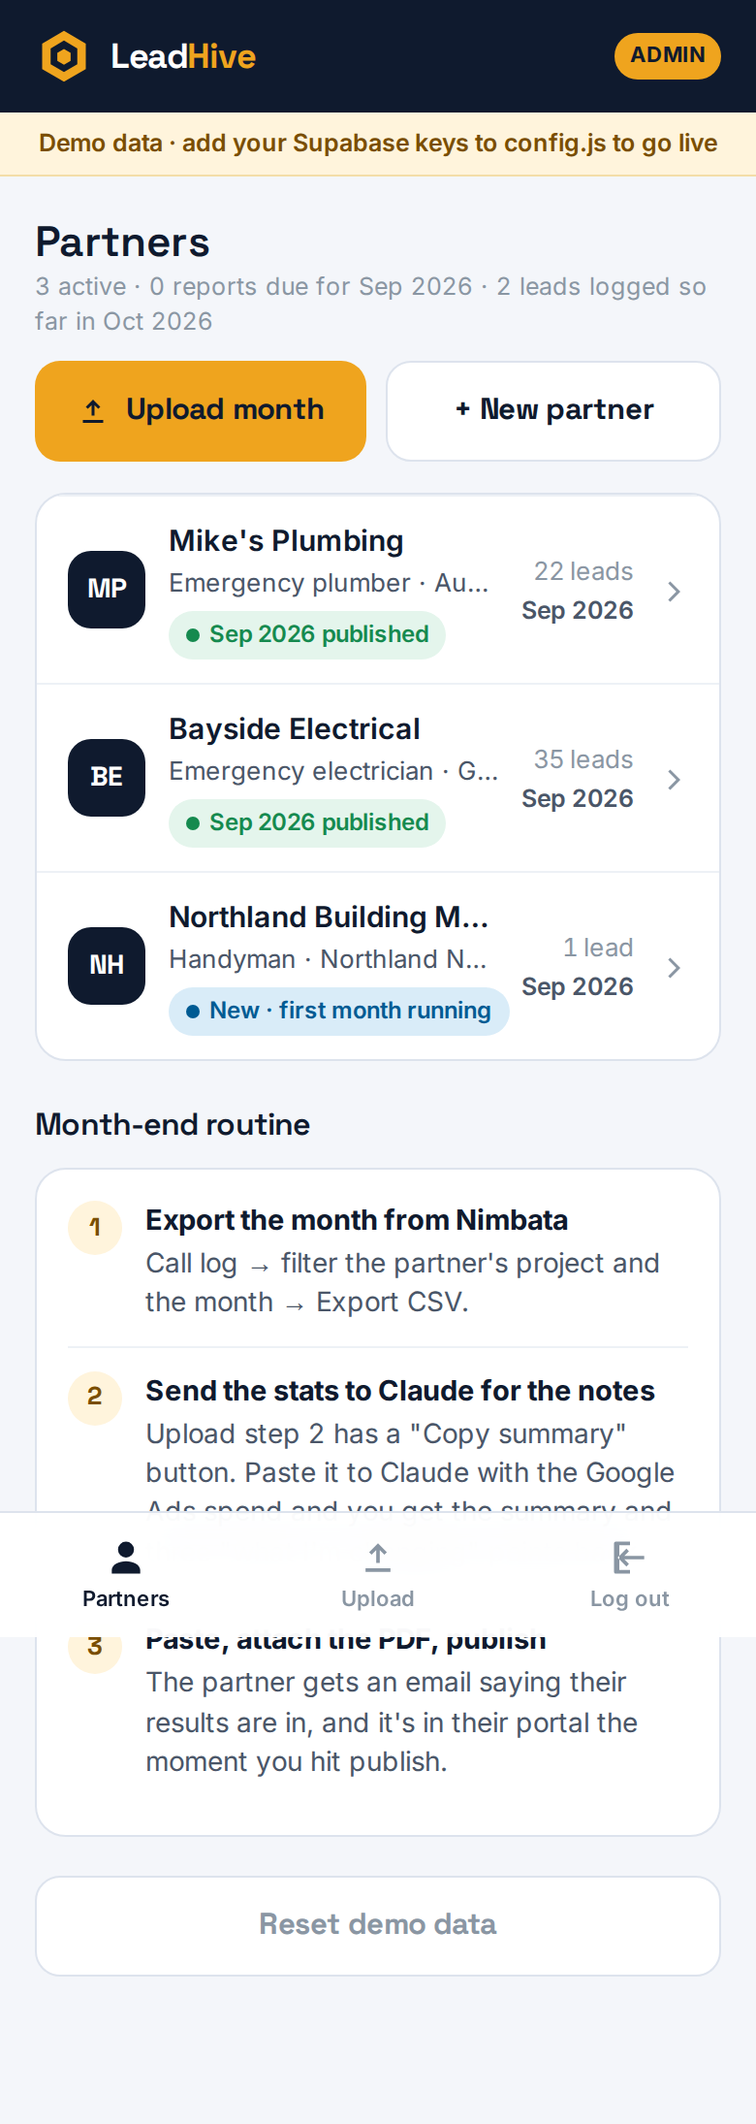
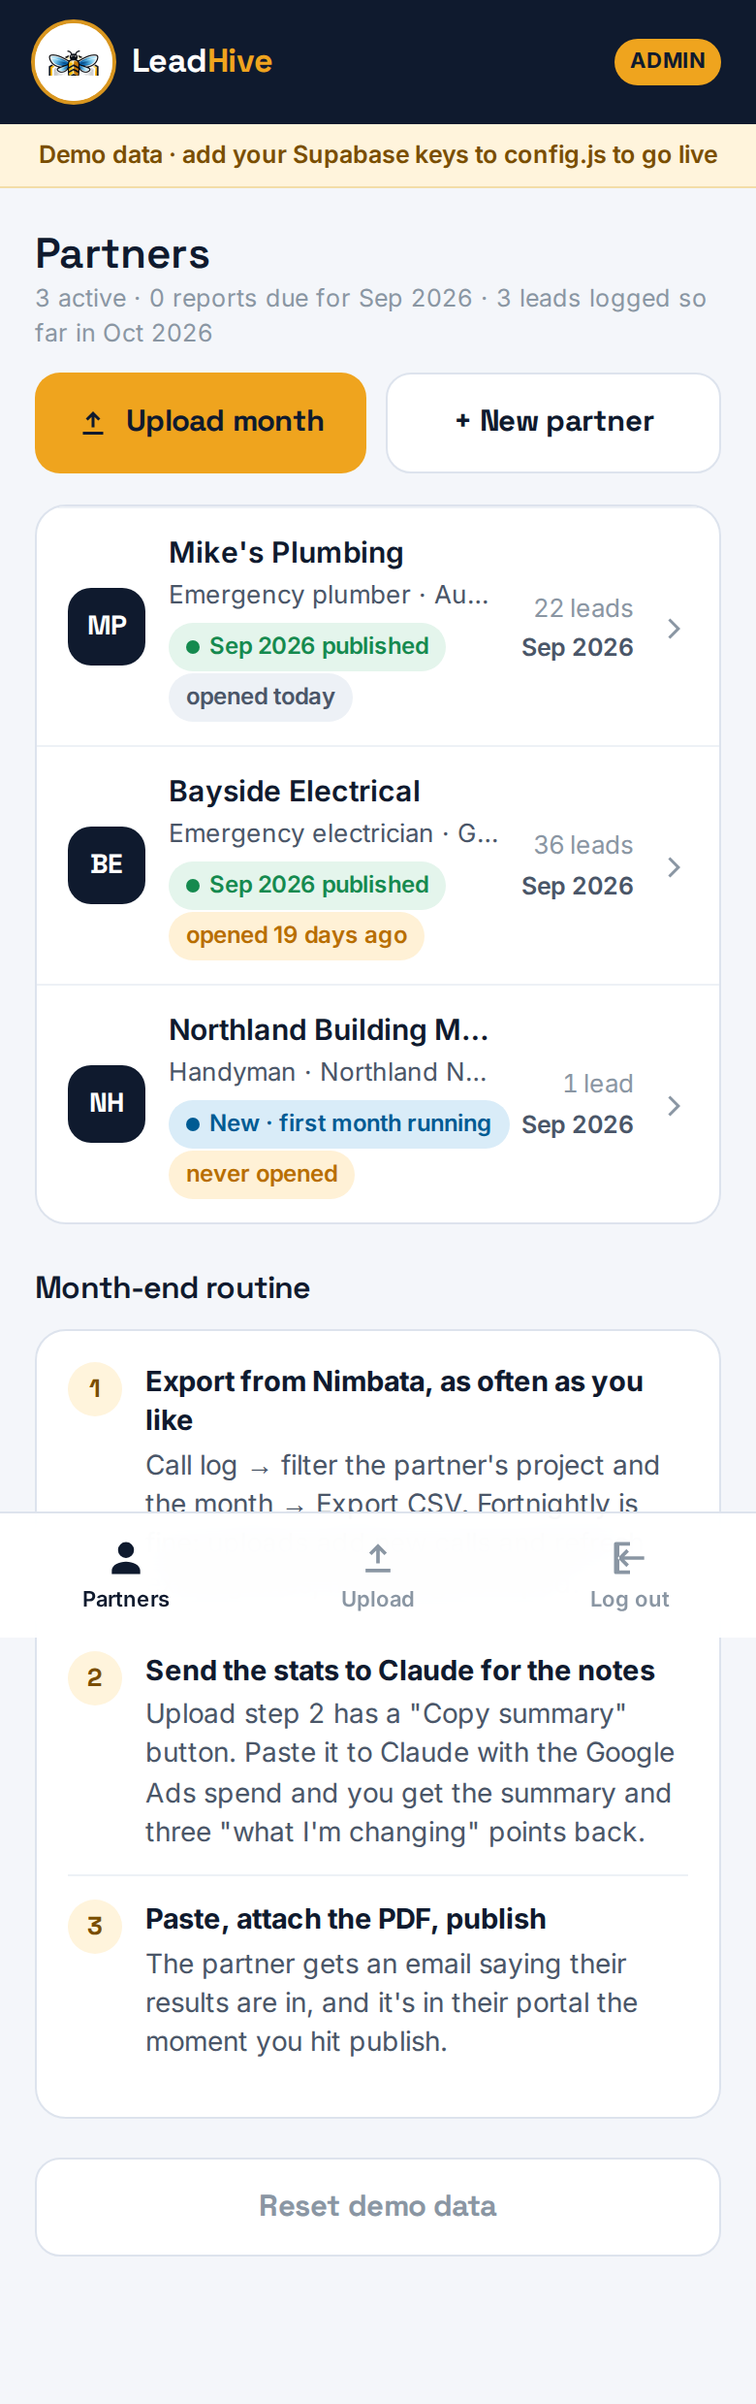
Handle partner churn: reasons, past partners, reactivation, last opened
Pausing a partner now asks for a reason and a note, keeps all their
data, shows a paused screen on their login, and lists them under Past
partners with the reason. Reactivate is one tap on their page. Partners
record a last-opened time when the portal loads (touch_seen RPC) and the
admin list flags anyone who hasn't opened it in two weeks. README
documents the offboarding flow.

Claude-Session: https://claude.ai/code/session_01VgpvMX7zLqg1kcFMCfdGMH

diff --git a/portal/app/public/app.js b/portal/app/public/app.js
@@ -131,6 +131,9 @@ function makeSupabaseApi() {
       return p || { id: user.id, email: user.email, role: "client", client_id: null };
     },
     async loadClients() { return q(sb.from("clients").select("*").order("business_name")); },
+    async touchSeen() { try { await sb.rpc("touch_seen"); } catch (e) {} },
+    async loadLastSeen() { const rows = await q(sb.from("profiles").select("client_id,last_seen_at").not("client_id", "is", null)); const m = {}; rows.forEach((r) => { if (r.last_seen_at && (!m[r.client_id] || r.last_seen_at > m[r.client_id])) m[r.client_id] = r.last_seen_at; }); return m; },
+    async reactivateClient(cid) { await q(sb.from("clients").update({ active: true, churned_on: null, churn_reason: null, churn_note: "" }).eq("id", cid)); },
     async loadCounts() { const rows = await q(sb.from("v_lead_counts").select("*")); return rows.map((r) => ({ ...r, calls: num(r.calls), answered: num(r.answered), enquiries: num(r.enquiries), leads: num(r.leads), won: num(r.won), won_value: num(r.won_value) })); },
     async loadMonths(cid) {
       let mq = sb.from("months").select("*").order("ym"); let aq = sb.from("v_month_ad_spend").select("month_id, ad_spend");
@@ -149,7 +152,7 @@ function makeSupabaseApi() {
     },
     async updateLead(kind, id, patch) { await q(sb.from(kind === "call" ? "calls" : "enquiries").update(patch).eq("id", id)); },
     async upsertClient(c) { const row = { ...c }; if (!row.id) delete row.id; return q(sb.from("clients").upsert(row).select().single()); },
-    async deactivateClient(cid) { await q(sb.from("clients").update({ active: false }).eq("id", cid)); },
+    async deactivateClient(cid, reason, note) { await q(sb.from("clients").update({ active: false, churned_on: new Date().toISOString().slice(0, 10), churn_reason: reason || null, churn_note: note || "" }).eq("id", cid)); },
     async getWebhookKey(cid) { const r = await q(sb.from("client_secrets").select("webhook_key").eq("client_id", cid).maybeSingle()); return r ? r.webhook_key : ""; },
     async upsertMonth(m) { return q(sb.from("months").upsert(m, { onConflict: "client_id,ym" }).select().single()); },
     async setAdSpend(month_id, ad_spend) { await q(sb.from("month_private").upsert({ month_id, ad_spend })); },
@@ -193,7 +196,10 @@ function makeDemoApi() {
     async loadClientData(cid) { await sleep(120); const me = meSync(); if (me.role !== "admin" && cid !== me.client_id) throw new Error("Not allowed"); return { months: await this.loadMonths(cid), calls: D.calls.filter((c) => c.client_id === cid).map((c) => ({ ...c })).sort((a, b) => (a.called_at < b.called_at ? 1 : -1)), enquiries: D.enquiries.filter((e) => e.client_id === cid).map((e) => ({ ...e })).sort((a, b) => (a.received_at < b.received_at ? 1 : -1)) }; },
     async updateLead(kind, id, patch) { const x = (kind === "call" ? D.calls : D.enquiries).find((r) => r.id === id); if (!x) throw new Error("Lead not found"); const me = meSync(); if (me.role !== "admin") { const allowed = ["client_status", "job_value", "client_note"]; for (const k of Object.keys(patch)) if (!allowed.includes(k)) throw new Error("Partners can only change the lead outcome, job value and note"); if (["not_lead", "spam"].includes(patch.client_status) && patch.client_status !== x.client_status) throw new Error("Only LeadHive can mark a lead as not a lead or spam"); } Object.assign(x, patch); persist(); },
     async upsertClient(c) { let row = D.clients.find((x) => x.id === c.id); if (!row) { row = { ...c, id: c.id || uid(), active: true }; D.clients.push(row); D.secrets[row.id] = "lh_demo_" + (row.initials || "xx").toLowerCase() + "_" + uid().replace(/-/g, "").slice(0, 16); } else Object.assign(row, c); persist(); return { ...row }; },
-    async deactivateClient(cid) { const c = D.clients.find((x) => x.id === cid); if (c) c.active = false; persist(); },
+    async deactivateClient(cid, reason, note) { const c = D.clients.find((x) => x.id === cid); if (c) { c.active = false; c.churned_on = new Date().toISOString().slice(0, 10); c.churn_reason = reason || null; c.churn_note = note || ""; } persist(); },
+    async reactivateClient(cid) { const c = D.clients.find((x) => x.id === cid); if (c) { c.active = true; c.churned_on = null; c.churn_reason = null; c.churn_note = ""; } persist(); },
+    async touchSeen() { const me = meSync(); if (me && me.client_id) { D.seen = D.seen || {}; D.seen[me.client_id] = new Date().toISOString(); persist(); } },
+    async loadLastSeen() { const m = { ...(D.seen || {}) }; const days = (n) => new Date(Date.now() - n * 864e5).toISOString(); if (!m[D.clients[0].id]) m[D.clients[0].id] = days(2); if (D.clients[1] && !m[D.clients[1].id]) m[D.clients[1].id] = days(19); return m; },
     async getWebhookKey(cid) { return D.secrets[cid] || ""; },
     async upsertMonth(m) { let row = D.months.find((x) => x.client_id === m.client_id && x.ym === m.ym); if (!row) { row = { id: uid(), ad_spend: 0, pdf_path: null, published_at: null, ...m }; D.months.push(row); } else Object.assign(row, m); persist(); return { ...row }; },
     async setAdSpend(month_id, ad_spend) { const m = D.months.find((x) => x.id === month_id); if (m) m.ad_spend = ad_spend; persist(); },
@@ -227,13 +233,14 @@ function makeDemoApi() {
 const api = DEMO ? makeDemoApi() : makeSupabaseApi();
 
 /* ═══════════════════════════ cache + loaders ═══════════════════════════ */
-const DB = { me: null, clients: [], months: [], calls: [], enquiries: [], counts: [], loaded: {}, keys: {} };
-function resetDB() { DB.me = null; DB.clients = []; DB.months = []; DB.calls = []; DB.enquiries = []; DB.counts = []; DB.loaded = {}; DB.keys = {}; }
+const DB = { me: null, clients: [], months: [], calls: [], enquiries: [], counts: [], loaded: {}, keys: {}, seen: {} };
+function resetDB() { DB.me = null; DB.clients = []; DB.months = []; DB.calls = []; DB.enquiries = []; DB.counts = []; DB.loaded = {}; DB.keys = {}; DB.seen = {}; }
 async function loadBase() {
   DB.me = await api.me();
   if (!DB.me) return;
   DB.clients = await api.loadClients();
-  if (DB.me.role === "admin") { const [counts, months] = await Promise.all([api.loadCounts(), api.loadMonths()]); DB.counts = counts; DB.months = months; }
+  if (DB.me.role === "admin") { const [counts, months, seen] = await Promise.all([api.loadCounts(), api.loadMonths(), api.loadLastSeen().catch(() => ({}))]); DB.counts = counts; DB.months = months; DB.seen = seen; }
+  else if (DB.me.client_id) api.touchSeen();
 }
 async function ensureClient(cid, force) {
   if (!force && DB.loaded[cid]) return;
@@ -494,7 +501,7 @@ function renderReset() {
     try { await api.updatePassword($("rs-pass").value); toast("Password saved"); resetDB(); go("/"); await route(); } catch (ex) { err.textContent = ex.message; err.classList.remove("hidden"); } };
 }
 function renderPaused(c) {
-  app().innerHTML = loginShell(`<h2>Your portal is paused</h2><p class="lede mt8">${h(c.business_name)} isn't an active LeadHive partner right now, so the portal is switched off. Text ${h(JOE.name)} if that's a surprise.</p>
+  app().innerHTML = loginShell(`<h2>Your portal is paused</h2><p class="lede mt8">${h(c.business_name)} isn't running with LeadHive right now, so the portal is switched off. Your calls, recordings and results are all kept, and it's one message to ${h(JOE.name)} to switch it back on.</p>
     ${JOE.phone ? `<a class="btn navy mt20" href="sms:${h(JOE.phone.replace(/\s/g, ""))}">Text ${h(JOE.name)}</a>` : ""}<button class="btn ghost mt12" id="np-out">Log out</button>`);
   $("np-out").onclick = async () => { await api.signOut(); resetDB(); go("/"); route(); };
 }
@@ -698,15 +705,18 @@ function clientStatus(c) {
   if (draft) return { cls: "warn", l: `${ymLabel(prevYm, false)} draft, not published` };
   return { cls: "bad", l: `${ymLabel(prevYm, false)} report due` };
 }
+const CHURN_REASONS = { price: "Price", capacity: "No capacity for more work", quality: "Lead quality", in_house: "Doing it themselves", seasonal: "Seasonal / pausing", other: "Other" };
+const agoText = (iso) => { if (!iso) return "never opened"; const d = Math.floor((Date.now() - new Date(iso)) / 864e5); return d <= 0 ? "opened today" : d === 1 ? "opened yesterday" : `opened ${d} days ago`; };
 function renderAdmin() {
-  const cs = DB.clients.filter((c) => c.active); const cur = CUR_YM(), prevYm = ymAdd(cur, -1);
+  const cs = DB.clients.filter((c) => c.active); const inactive = DB.clients.filter((c) => !c.active); const cur = CUR_YM(), prevYm = ymAdd(cur, -1);
   const due = cs.filter((c) => ["bad", "warn"].includes(clientStatus(c).cls)).length;
   const live = DB.counts.filter((r) => r.ym === cur).reduce((a, r) => a + r.leads, 0);
   app().innerHTML = topBar({ brand: true, right: `<span class="pill-admin">ADMIN</span>` }) + `<div class="shell">
   <div class="row" style="margin:18px 0 12px"><div class="grow"><h1 style="font-size:22px;font-weight:600">Partners</h1><div class="small muted">${cs.length} active · ${due} report${due === 1 ? "" : "s"} due for ${ymLabel(prevYm, false)} · ${live} lead${live === 1 ? "" : "s"} logged so far in ${ymLabel(cur, false)}</div></div></div>
   <div class="btn-row"><a class="btn primary" href="#/admin/upload">${ICON.upload}Upload month</a><a class="btn ghost" href="#/admin/newclient">+ New partner</a></div>
-  <div class="list mt16">${cs.length ? cs.map((c) => { const s = clientStatus(c); const k = countFor(c.id, prevYm); return `<a class="li client-li" href="#/admin/client/${c.id}"><div class="ic">${h(c.initials || "")}</div><div class="grow"><div class="t1"><span>${h(c.business_name)}</span></div><div class="t2"><span class="tx">${h(c.niche)} · ${h(c.region)} ${h(c.country)} · ${h(c.package_name)} ${money(c.monthly_fee)}</span></div><div style="margin-top:5px"><span class="chip ${s.cls}"><i></i>${s.l}</span></div></div><div class="meta"><div class="tm">${k.leads ? k.leads + (k.leads === 1 ? " lead" : " leads") : ""}</div><div class="du muted">${k.leads ? ymLabel(prevYm, false) : ""}</div></div><span class="chev">${ICON.chev}</span></a>`; }).join("") : `<div class="empty">No partners yet. Add your first one.</div>`}</div>
+  <div class="list mt16">${cs.length ? cs.map((c) => { const s = clientStatus(c); const k = countFor(c.id, prevYm); return `<a class="li client-li" href="#/admin/client/${c.id}"><div class="ic">${h(c.initials || "")}</div><div class="grow"><div class="t1"><span>${h(c.business_name)}</span></div><div class="t2"><span class="tx">${h(c.niche)} · ${h(c.region)} ${h(c.country)} · ${h(c.package_name)} ${money(c.monthly_fee)}</span></div><div style="margin-top:5px"><span class="chip ${s.cls}"><i></i>${s.l}</span> ${(() => { const seen = DB.seen[c.id]; const d = seen ? Math.floor((Date.now() - new Date(seen)) / 864e5) : null; return `<span class="chip ${d == null || d >= 14 ? "warn" : ""}">${agoText(seen)}</span>`; })()}</div></div><div class="meta"><div class="tm">${k.leads ? k.leads + (k.leads === 1 ? " lead" : " leads") : ""}</div><div class="du muted">${k.leads ? ymLabel(prevYm, false) : ""}</div></div><span class="chev">${ICON.chev}</span></a>`; }).join("") : `<div class="empty">No partners yet. Add your first one.</div>`}</div>
   <div class="sec"><div class="sec-h"><h2>Month-end routine</h2></div><div class="card"><div class="pt"><div class="ix">1</div><div><b>Export from Nimbata, as often as you like</b><p>Call log → filter the partner's project and the month → Export CSV. Fortnightly is fine: uploads add new calls and refresh existing ones, nothing gets wiped.</p></div></div><div class="pt"><div class="ix">2</div><div><b>Send the stats to Claude for the notes</b><p>Upload step 2 has a "Copy summary" button. Paste it to Claude with the Google Ads spend and you get the summary and three "what I'm changing" points back.</p></div></div><div class="pt"><div class="ix">3</div><div><b>Paste, attach the PDF, publish</b><p>The partner gets an email saying their results are in, and it's in their portal the moment you hit publish.</p></div></div></div></div>
+  ${inactive.length ? `<div class="sec"><div class="sec-h"><h2>Past partners</h2><span class="small muted">${inactive.length}</span></div><div class="list">${inactive.map((c) => `<a class="li client-li" href="#/admin/client/${c.id}" style="opacity:.75"><div class="ic" style="background:var(--ink-3)">${h(c.initials || "")}</div><div class="grow"><div class="t1"><span>${h(c.business_name)}</span></div><div class="t2"><span class="tx">${h(c.region)} · left ${c.churned_on ? fmtDate(c.churned_on + "T12:00:00Z") : "–"}${c.churn_reason ? " · " + h(CHURN_REASONS[c.churn_reason] || c.churn_reason) : ""}</span></div></div><span class="chev">${ICON.chev}</span></a>`).join("")}</div><p class="small muted mt8">Their data and recordings are kept. Open one to reactivate.</p></div>` : ""}
   ${DEMO ? `<button class="btn ghost mt20" id="reset" style="color:var(--ink-3)">Reset demo data</button>` : ""}</div>`;
   const r = $("reset"); if (r) r.onclick = () => { if (confirm("Reset the demo data to the starting state?")) { api.resetDemo(); resetDB(); route(); toast("Demo reset"); } };
 }
@@ -716,13 +726,15 @@ function renderAdminClient(ctx) {
   const ms = DB.months.filter((m) => m.client_id === c.id).sort((a, b) => (a.ym < b.ym ? 1 : -1)); const s = clientStatus(c); const cur = CUR_YM();
   const live = leadsFor(c.id, cur);
   app().innerHTML = topBar({ title: h(c.business_name), sub: `${h(c.contact_name)} · ${h(c.package_name)} · ${money(c.monthly_fee)}/mo`, back: "/admin" }) + `<div class="shell">
-  <div class="mt16"><span class="chip ${s.cls}"><i></i>${s.l}</span> <span class="chip">${c.lead_target_min}–${c.lead_target_max} leads</span> <span class="chip">${h(c.country)}</span>${c.active ? "" : ' <span class="chip bad">Inactive</span>'}</div>
+  ${c.active ? "" : `<div class="card mt16" style="background:var(--bad-bg);border-color:#F2C9C9"><b style="color:var(--bad)">Past partner · left ${c.churned_on ? fmtDate(c.churned_on + "T12:00:00Z") : "–"}${c.churn_reason ? " · " + h(CHURN_REASONS[c.churn_reason] || c.churn_reason) : ""}</b>${c.churn_note ? `<p class="small mt8" style="color:#7A2E2E">${h(c.churn_note)}</p>` : ""}<p class="small mt8" style="color:#7A2E2E">Their login is paused and their webhook is off. Everything is kept for a win-back.</p><button class="btn navy mt12" id="react">Reactivate partner</button></div>`}
+  <div class="mt16"><span class="chip ${s.cls}"><i></i>${s.l}</span> <span class="chip">${c.lead_target_min}–${c.lead_target_max} leads</span> <span class="chip">${h(c.country)}</span> <span class="chip ${DB.seen[c.id] && (Date.now() - new Date(DB.seen[c.id])) / 864e5 < 14 ? "" : "warn"}">${agoText(DB.seen[c.id])}</span></div>
   <div class="btn-row mt12"><a class="btn primary" href="#/admin/upload/${c.id}">${ICON.upload}Upload month</a><a class="btn ghost" href="#/as/${c.id}/home">View as ${h(c.contact_name || "partner")}</a></div>
   <div class="btn-row" style="margin-top:8px"><a class="btn ghost sm" style="flex:1" href="#/admin/settings/${c.id}">${ICON.cog}Settings &amp; login</a><button class="btn ghost sm" style="flex:1" id="copy-hook">${ICON.copy}Enquiry webhook</button></div>
   <div class="sec"><div class="sec-h"><h2>Months</h2></div><div class="list">${ms.length ? ms.map((m) => { const st = monthStats(c, m.ym); return `<a class="li" href="#/admin/upload/${c.id}/${m.ym}"><div class="grow"><div class="t1"><span>${ymLabel(m.ym)}</span>${m.status === "published" ? `<span class="chip good">Published</span>` : `<span class="chip warn">Draft</span>`}</div><div class="t2"><span class="tx">${st.leads} leads · ${st.calls} calls · ${st.missedRate}% missed · ${st.enq} web${st.adSpend ? ` · ads ${money(st.adSpend)}${st.leads ? ` (${money(st.cplAd)}/lead)` : ""}` : ""}</span></div></div><span class="chev">${ICON.chev}</span></a>`; }).join("") : `<div class="empty">No months uploaded yet.</div>`}</div></div>
   <div class="sec"><div class="sec-h"><h2>${ymLabel(cur, false)} so far</h2><a href="#/as/${c.id}/leads/${cur}">${live.length} lead${live.length === 1 ? "" : "s"}</a></div><div class="list">${live.length ? live.slice(0, 4).map((x) => leadRow(x, `/as/${c.id}`, null)).join("") : `<div class="empty">Nothing logged yet this month. Web enquiries land here live once the webhook is on the landing page; calls arrive with the CSV.</div>`}</div></div>
   <div class="sec"><div class="sec-h"><h2>Margin (admin only)</h2></div><div class="card">${ms.filter((m) => m.status === "published").slice(0, 3).map((m) => { const ad = Number(m.ad_spend) || 0; const fee = Number(c.monthly_fee) || 0; return `<div class="rpt-k"><span>${ymLabel(m.ym, false)}</span><b>${money(fee - ad)} <span class="muted small">of ${money(fee)} · ${pct(fee - ad, fee)}%</span></b></div>`; }).join("") || `<div class="muted small">Nothing published yet.</div>`}<p class="small muted mt8">Partners never see ad spend unless you switch it on in Settings.</p></div></div></div>`;
   $("copy-hook").onclick = async () => { try { const key = DB.keys[c.id] || (DB.keys[c.id] = await api.getWebhookKey(c.id)); copyText(`POST ${PORTAL_URL}/api/enquiry\nx-leadhive-key: ${key}\n{ "name", "phone", "suburb", "issue", "isUrgent", "page" }`, "Webhook details copied"); } catch (e) { toast(e.message, true); } };
+  const ra = $("react"); if (ra) ra.onclick = async () => { try { ra.setAttribute("disabled", ""); await api.reactivateClient(c.id); Object.assign(c, { active: true, churned_on: null, churn_reason: null, churn_note: "" }); toast(`${c.business_name} is back`); route(); } catch (e) { toast(e.message, true); ra.removeAttribute("disabled"); } };
 }
 function renderUpload(ctx) {
   const pre = ctx.args[0] ? client(ctx.args[0]) : null; const cur = CUR_YM(); const preYm = ctx.args[1] || ymAdd(cur, -1);
@@ -816,7 +828,8 @@ async function renderSettings(ctx) {
   <div class="card mt12"><h2 style="font-size:16px;font-weight:600">Login</h2><p class="small muted mt8">They log in with the email above. Set a password here and send it to them, or let them use "Set up your login" on the login screen with that email.</p>${f("s-pass", isNew ? "Password for their login" : "Set or reset their password", "", "text", 'placeholder="e.g. Plumbing2026" autocomplete="off"')}<div class="btn-row mt12"><button class="btn ghost sm" style="flex:1" id="s-sendlogin">${ICON.copy}Copy login message</button></div></div>
   ${isNew ? "" : `<div class="card mt12"><h2 style="font-size:16px;font-weight:600">Website enquiries</h2><p class="small muted mt8">Add this to the landing page's enquiry route and every form submission lands in their portal instantly.</p><pre class="code mt8" id="hook">loading…</pre></div>`}
   <button class="btn primary mt16" id="s-save">${isNew ? "Create partner + login" : "Save settings"}</button>
-  ${isNew || !c.active ? "" : `<button class="btn danger mt12" id="s-off">Deactivate partner</button>`}
+  ${isNew || !c.active ? "" : `<button class="btn danger mt12" id="s-off">Partner is leaving…</button>
+  <div class="card mt12 hidden" id="off-box"><h2 style="font-size:16px;font-weight:600">Why are they leaving?</h2><p class="small muted mt8">One tap. You'll see this on the past partners list and it shapes what we fix.</p><label class="fld"><span>Reason</span><select id="off-reason">${Object.entries(CHURN_REASONS).map(([k, v]) => `<option value="${k}">${v}</option>`).join("")}</select></label><label class="fld"><span>Note (optional)</span><textarea id="off-note" placeholder="e.g. Hired a second plumber, wants to pause until March"></textarea></label><div class="btn-row mt12"><button class="btn ghost" id="off-cancel">Keep them</button><button class="btn danger" id="off-go">Pause their portal</button></div></div>`}
   <div style="height:20px"></div></div>`;
   $("s-cpl").onclick = (e) => e.currentTarget.classList.toggle("on"); $("s-ads").onclick = (e) => e.currentTarget.classList.toggle("on");
   $("s-country").onchange = (e) => { $("s-tz").value = TZ_FOR[e.target.value] || "Pacific/Auckland"; };
@@ -830,7 +843,9 @@ async function renderSettings(ctx) {
       await refreshAdmin(); toast((isNew ? "Partner created" : "Saved") + note, /not created/.test(note)); setTimeout(() => go(`/admin/client/${saved.id}`), 600); }
     catch (ex) { toast(ex.message, true); btn.removeAttribute("disabled"); } };
   $("s-sendlogin").onclick = () => { const v = read(); const pw = $("s-pass").value.trim() || "(set a password first)"; copyText(`Hey ${v.contact_name}, your LeadHive portal is live.\n\nLog in: ${PORTAL_URL}\nEmail: ${v.email || "(add their email)"}\nPassword: ${pw}\n\nYou'll see every call and web enquiry, listen to recordings, and get my monthly notes there. Add it to your home screen and it works like an app. Tag each lead as won/quoted/not a lead when you get a sec, it shows your real return.\n\n${JOE.name}`, "Login message copied"); };
-  const off = $("s-off"); if (off) off.onclick = async () => { if (confirm(`Deactivate ${c.business_name}? Their login stops working; data is kept.`)) { try { await api.deactivateClient(c.id); c.active = false; go("/admin"); } catch (ex) { toast(ex.message, true); } } };
+  const off = $("s-off"); if (off) off.onclick = () => { $("off-box").classList.toggle("hidden"); $("off-box").scrollIntoView({ behavior: "smooth", block: "center" }); };
+  const offC = $("off-cancel"); if (offC) offC.onclick = () => $("off-box").classList.add("hidden");
+  const offG = $("off-go"); if (offG) offG.onclick = async () => { try { offG.setAttribute("disabled", ""); await api.deactivateClient(c.id, $("off-reason").value, $("off-note").value.trim()); Object.assign(c, { active: false, churned_on: new Date().toISOString().slice(0, 10), churn_reason: $("off-reason").value, churn_note: $("off-note").value.trim() }); toast(`${c.business_name} paused. Their data is kept.`); go(`/admin/client/${c.id}`); } catch (ex) { toast(ex.message, true); offG.removeAttribute("disabled"); } };
   if (!isNew) { try { const key = DB.keys[c.id] || (DB.keys[c.id] = await api.getWebhookKey(c.id)); $("hook").textContent = `POST ${PORTAL_URL}/api/enquiry\nx-leadhive-key: ${key}\n{ "name", "phone", "suburb", "issue", "isUrgent", "page" }`; } catch (e) { const el = $("hook"); if (el) el.textContent = "Couldn't load the key: " + e.message; } }
 }
 

diff --git a/portal/README.md b/portal/README.md
@@ -141,6 +141,16 @@ Use the return in every renewal and upsell conversation, feed your own "not a le
 "spam" flags back into negative keywords, and make tagging a two-minute ritual on the
 monthly check-in call.
 
+## When a partner leaves
+
+Admin → partner → Settings → **Partner is leaving…** → pick a reason (price, capacity, lead
+quality, in-house, seasonal, other) and a note → **Pause their portal**. Their login shows a
+"paused" screen, their enquiry webhook stops accepting, and everything (calls, recordings,
+tags, reports) is kept. They move to **Past partners** at the bottom of the admin list with
+the reason. Open them and tap **Reactivate partner** to switch it all back on in one tap.
+The admin list also shows when each partner last opened the portal; two weeks without
+opening it is your early warning.
+
 ## Changing things later
 
 - Joe's phone / WhatsApp / email: `app/public/config.js`.
